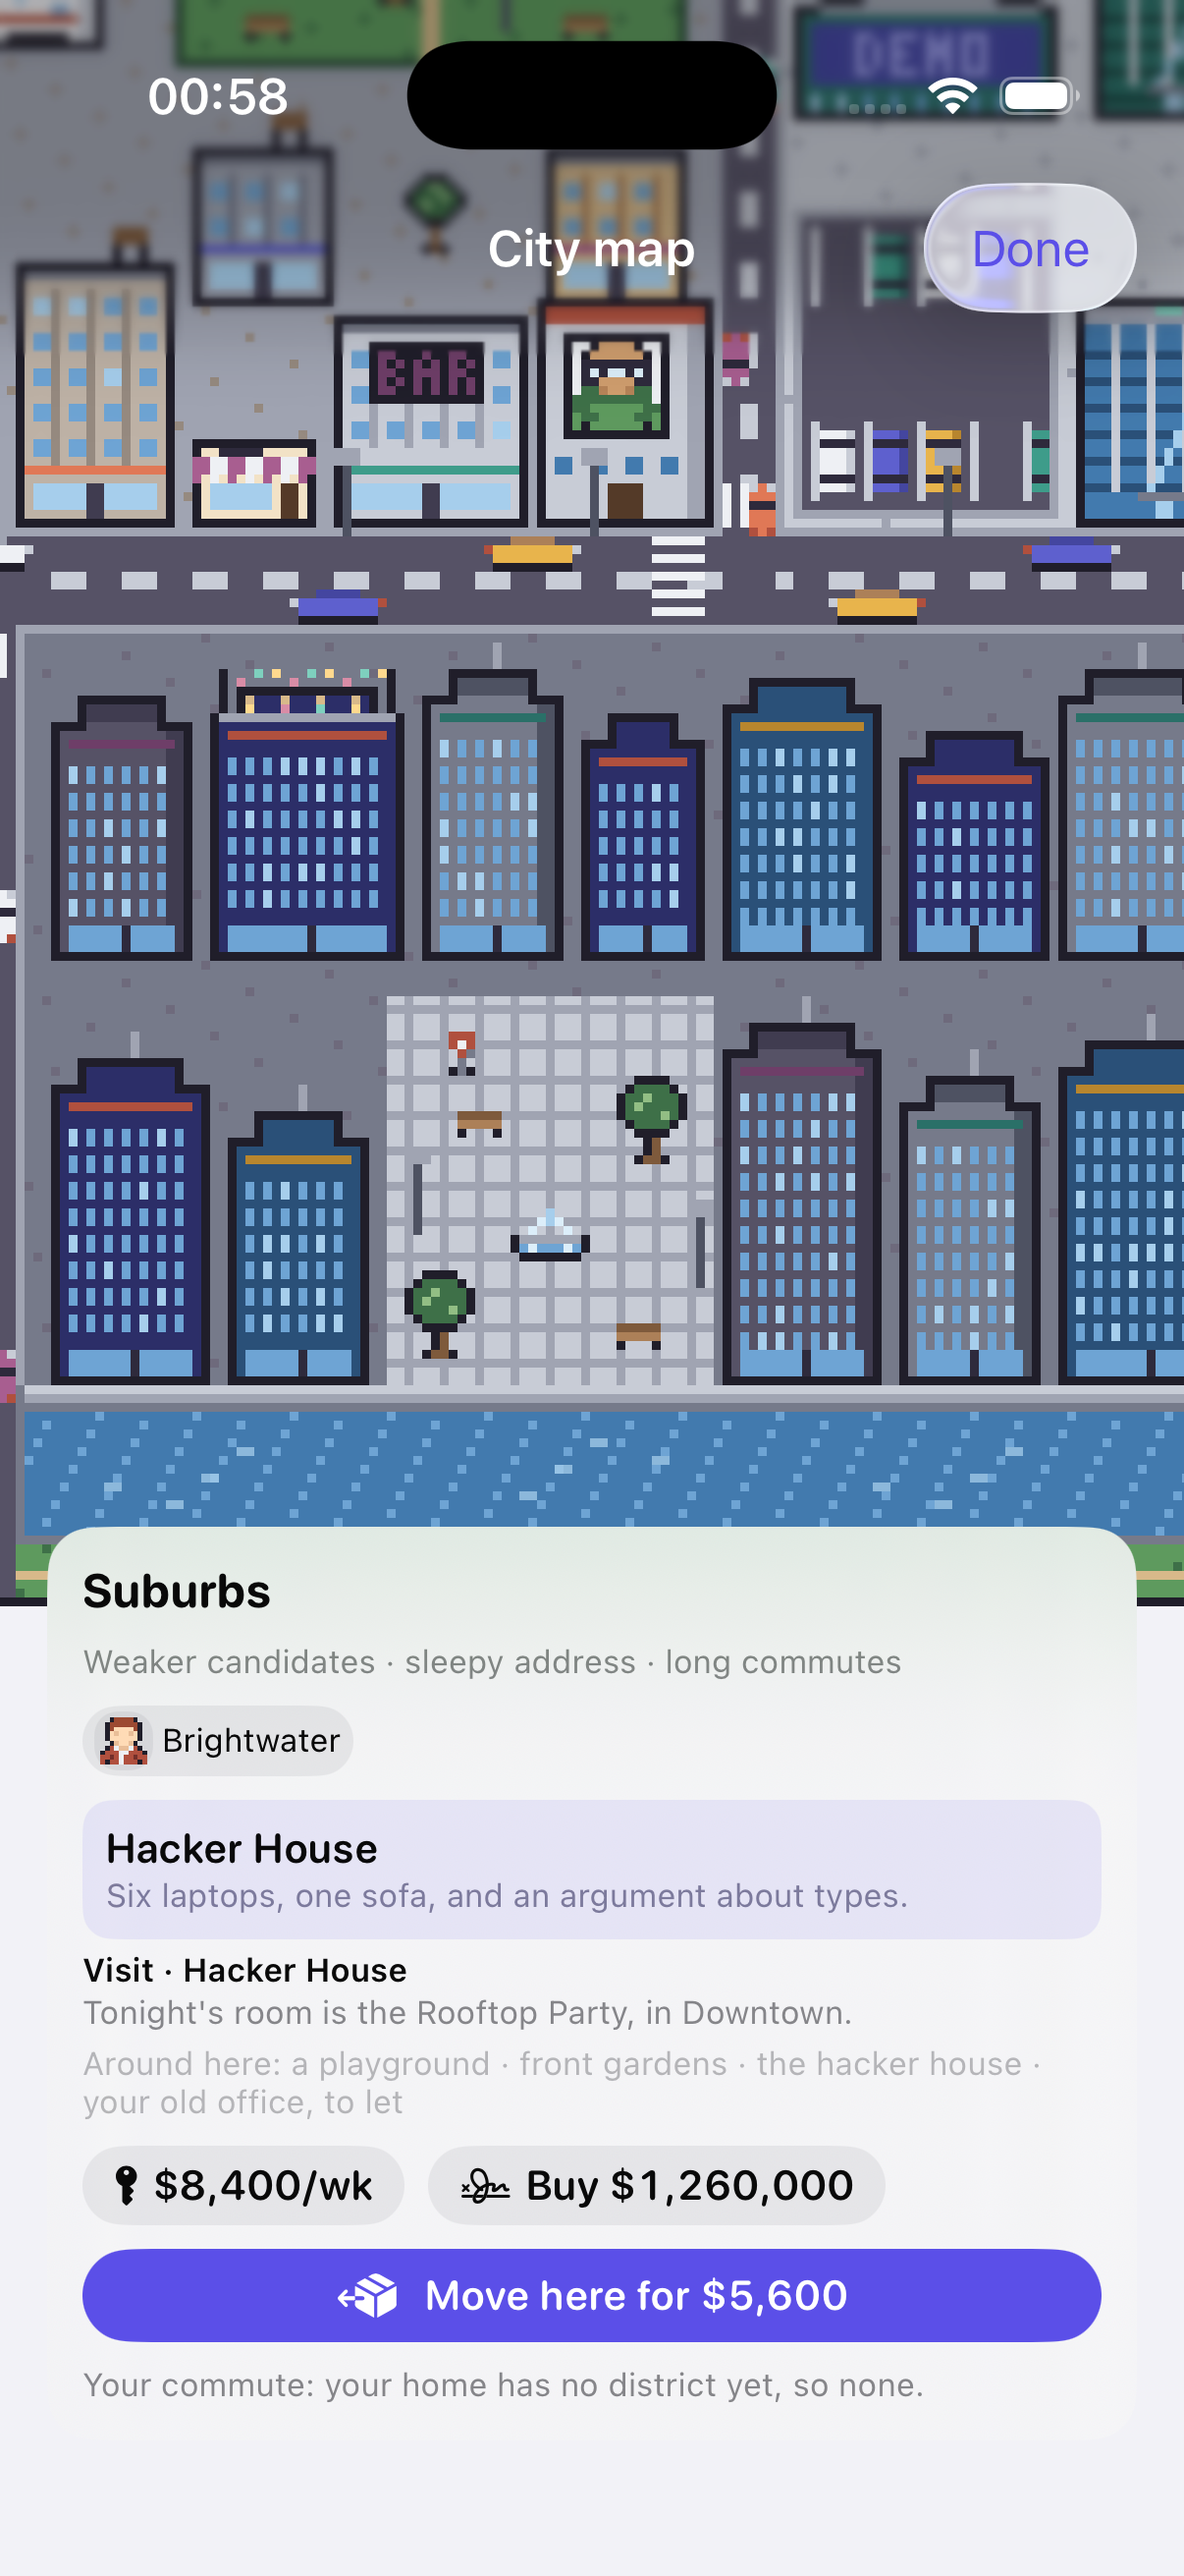
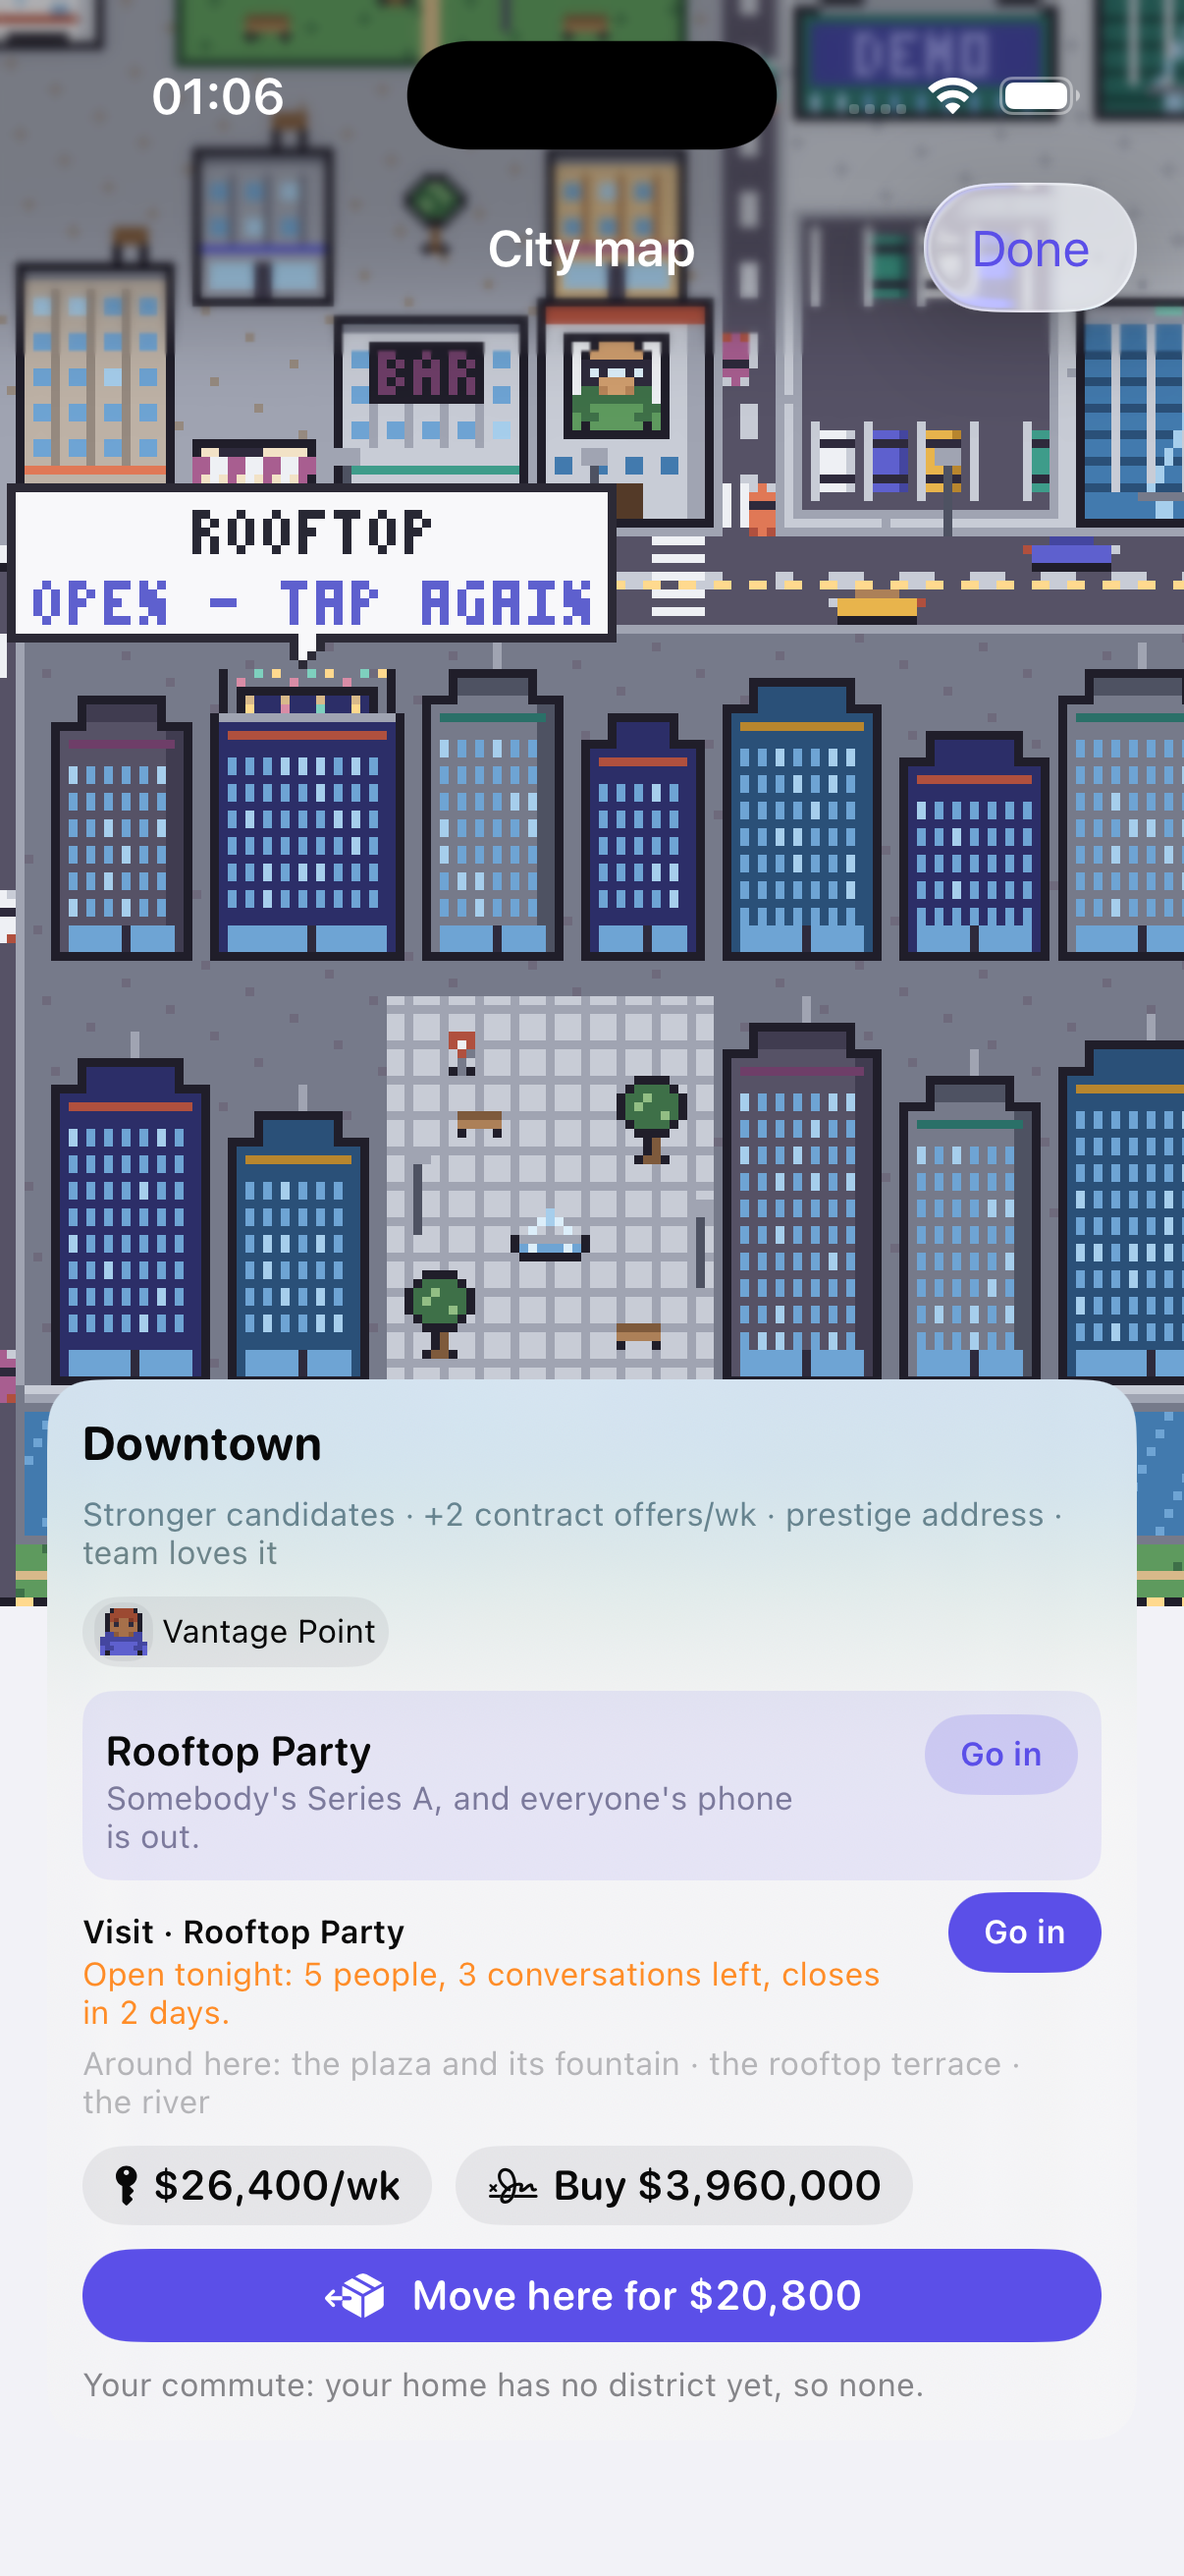
S4: the room's button lives on the Visit row only; before/after renders and app shots
Claude-Session: https://claude.ai/code/session_01EogGEAPnD53jqNZQvCKTKf

diff --git a/App/Sources/Screens/City/CityWhoIsHere.swift b/App/Sources/Screens/City/CityWhoIsHere.swift
@@ -159,12 +159,8 @@ struct CityWhoIsHere: View {
                 action: "Profile"
             )
         case .venue:
-            let open = state.networking.pendingEvent?.venue == venue
-            return FocusRow(
-                title: venue?.displayName ?? "The room",
-                detail: venue?.blurb ?? "",
-                action: open ? "Go in" : nil
-            )
+            // The Visit row under this carries the room's button.
+            return FocusRow(title: venue?.displayName ?? "The room", detail: venue?.blurb ?? "", action: nil)
         case .hospital:
             let stays = state.economy.hospitalizationDays.count
             return FocusRow(
